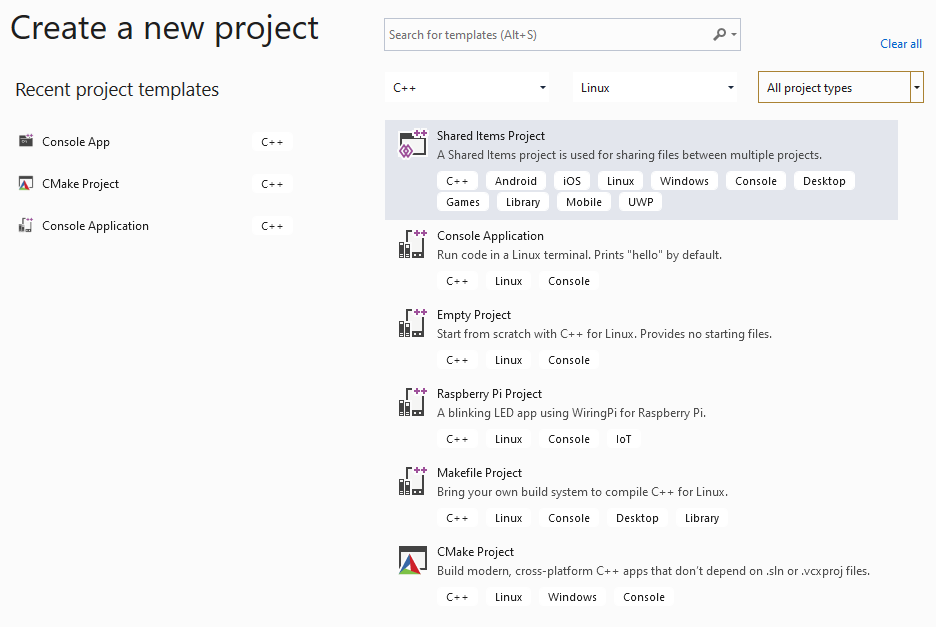
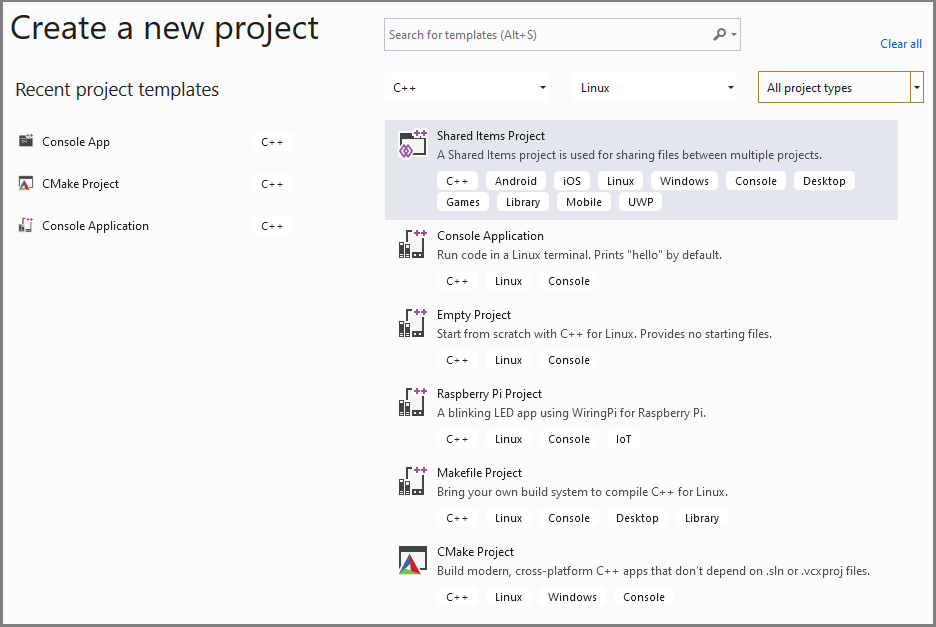
add border to screenshot, small cleanup

Changed region(s): [[0.0, 0.0, 1.0, 1.0]]

diff --git a/docs/linux/configure-a-linux-project.md b/docs/linux/configure-a-linux-project.md
@@ -36,7 +36,7 @@ By default, an executable (.out) is built. To build a static or dynamic library,
 
 If you're building for Windows Subsystem for Linux (WSL), be aware that WSL Version 1 is limited to 64 parallel compilation processes. This is goverened by the **Max Parallel Compilation Jobs** setting in **Configuration properties > C/C++ > General**.
 
-Regardless of the WSL version , if you intend to use more than 64 parallel compilation processes, we recommend that you build with Ninja--which generally will be faster and more reliable. To build with Ninja, use the **Enable Incremental Build** setting in **Configuration properties > General**.
+Regardless of the WSL version you are using, if you intend to use more than 64 parallel compilation processes, we recommend that you build with Ninja--which generally will be faster and more reliable. To build with Ninja, use the **Enable Incremental Build** setting in **Configuration properties > General**.
 
 For more information about the settings in the property pages, see [Linux Project Property Page Reference](prop-pages-linux.md).
 

diff --git a/docs/linux/prop-pages/c-cpp-linux.md b/docs/linux/prop-pages/c-cpp-linux.md
@@ -48,8 +48,8 @@ Linux support is available in Visual Studio 2017 and later.
 
 ## Preprocessor
 
-| Property | Description | Choices |
-|--|--|--|
+| Property | Description |
+|--|--|
 | Preprocessor Definitions | Defines preprocessing symbols for your source file. (-D) |
 | Undefine Preprocessor Definitions | Specifies one or more preprocessor undefines.  (-U \[macro]) |
 | Undefine All Preprocessor Definitions | Undefines all previously defined preprocessor values.  (-undef) |
